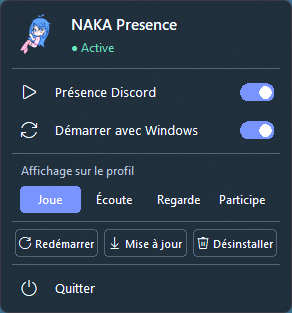
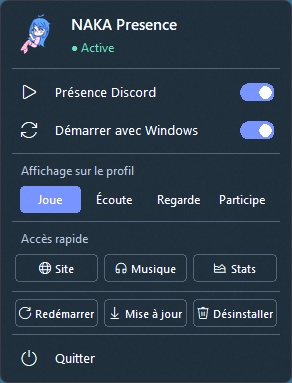
feat: v1.1.1, accès rapide aux pages du serveur
Nouvelle ligne « Accès rapide » dans le menu : Site (globe), Musique (casque)
et Stats (graphique), qui ouvrent les pages du serveur NAKA dans le navigateur.

Changed region(s): [[0.0308, 0.0288, 0.9555, 0.9776]]

diff --git a/naka_presence.py b/naka_presence.py
@@ -33,7 +33,7 @@ def trim_memory() -> None:
         pass
 
 APP_NAME = "NAKA Presence"
-APP_VERSION = "1.1.0"  # reprise par build.ps1 pour l'installateur
+APP_VERSION = "1.1.1"  # reprise par build.ps1 pour l'installateur
 MUTEX_NAME = "NakaPresenceMutex"
 REPO = "Wakizashi2313/naka-presence"
 SETUP_ASSET = "NakaPresence-Setup.exe"
@@ -92,6 +92,14 @@ OLD_DEFAULT_BUTTONS = [{"label": "Rejoindre le serveur", "url": "https://discord
 
 # type d'activité Discord -> libellé affiché dans le menu
 ACTIVITY_TYPES = [(0, "Joue"), (2, "Écoute"), (3, "Regarde"), (5, "Participe")]
+
+# accès rapide aux pages du serveur : (icône Segoe Fluent, libellé, adresse)
+GUILD_ID = "1500775639706370151"
+QUICK_LINKS = [
+    ("", "Site", "https://naka-discord.fr/"),                                # globe
+    ("", "Musique", f"https://musique.naka-discord.fr/g/{GUILD_ID}"),       # casque
+    ("", "Stats", f"https://stats.naka-discord.fr/g/{GUILD_ID}"),           # graphique
+]
 
 WM_LBUTTONDBLCLK = 0x0203
 WM_RBUTTONUP = 0x0205
@@ -606,6 +614,8 @@ class TrayMenu:
         self._separator(body)
         self._type_selector(body)
         self._separator(body)
+        self._quick_links(body)
+        self._separator(body)
         self._actions(body)
         self._separator(body)
         self._row(body, "", "Quitter", app.quit)
@@ -733,6 +743,20 @@ class TrayMenu:
         # gardée par le menu et oubliée à sa fermeture
         self.redraws.append(draw)
         return cv
+
+    def _quick_links(self, parent: tk.Frame) -> None:
+        """Site / Musique / Stats : ouvre la page dans le navigateur et ferme le menu."""
+        s = self.s
+        tk.Label(parent, text="Accès rapide", bg=BG, fg=MUTED, font=("Segoe UI", 9),
+                 anchor="w").pack(fill="x", padx=int(12 * s), pady=(int(2 * s), int(4 * s)))
+        bar = tk.Frame(parent, bg=BG)
+        bar.pack(fill="x", padx=int(6 * s), pady=(0, int(4 * s)))
+        for glyph, text, url in QUICK_LINKS:
+            def open_page(u=url) -> None:
+                self._close()
+                os.startfile(u)  # type: ignore[attr-defined]  (navigateur par défaut)
+            self._button(bar, text, open_page, glyph=glyph).pack(
+                side="left", fill="x", expand=True, padx=int(2 * s))
 
     def _actions(self, parent: tk.Frame) -> None:
         s = self.s

diff --git a/README.md b/README.md
@@ -24,6 +24,7 @@
 - **Icône dans la zone de notification** : double-clic pour activer ou désactiver, clic droit pour le menu.
 - **Type d'affichage au choix** : Joue, Écoute, Regarde ou Participe.
 - **Démarrage avec Windows** en option.
+- **Accès rapide** aux pages du serveur : site, musique et statistiques.
 - **Mises à jour intégrées** : recherche au lancement ou sur demande, pastille quand une version est disponible, installation après confirmation.
 - **Légère** : quelques Mo de mémoire au repos.
 - **Désinstallation propre** : rien ne reste sur le système.
